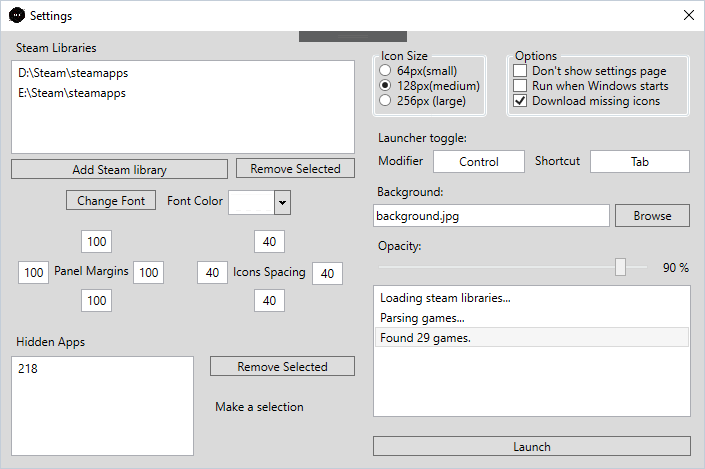
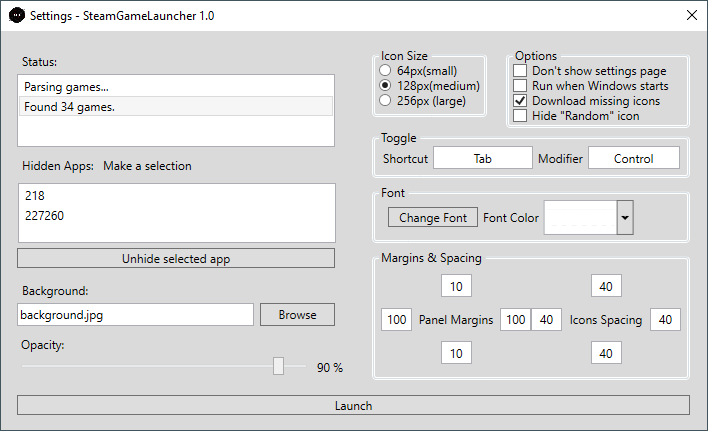
Revamped settings page, added screenshots.

diff --git a/MainWindow.xaml b/MainWindow.xaml
@@ -6,10 +6,10 @@
         xmlns:xctk="http://schemas.xceed.com/wpf/xaml/toolkit"
         xmlns:local="clr-namespace:Steam_Game_Launcher"
         mc:Ignorable="d"
-        Title="Settings" Height="475.682" Width="718.808" ResizeMode="NoResize" Initialized="fmSettings_Initialized" ShowInTaskbar="False" Background="#FFDADADA" WindowStartupLocation="CenterScreen" Closing="fmSettings_Closing" Icon="/Resources/icon.ico">
+        Title="Settings" Height="437.682" Width="721.808" ResizeMode="NoResize" Initialized="fmSettings_Initialized" ShowInTaskbar="False" Background="#FFDADADA" WindowStartupLocation="CenterScreen" Closing="fmSettings_Closing" Icon="/Resources/icon.ico">
     <Grid RenderTransformOrigin="0.514,0.515" Margin="0,0,0,-19">
-        <Button x:Name="btLauncher" Content="Launch" HorizontalAlignment="Left" Margin="17,414,0,0" VerticalAlignment="Top" Width="318" Click="btLauncher_Click"/>
-        <ListBox x:Name="lbLog" HorizontalAlignment="Left" Height="132" Margin="17,10,0,0" VerticalAlignment="Top" Width="318"/>
+        <Button x:Name="btLauncher" Content="Launch" HorizontalAlignment="Left" Margin="16,364,0,0" VerticalAlignment="Top" Width="673" Click="btLauncher_Click"/>
+        <ListBox x:Name="lbLog" HorizontalAlignment="Left" Height="73" Margin="16,43,0,0" VerticalAlignment="Top" Width="318"/>
         <GroupBox x:Name="groupBox" Header="Icon Size" HorizontalAlignment="Left" Margin="371,15,0,0" VerticalAlignment="Top" Height="71" Width="115">
             <StackPanel HorizontalAlignment="Left" Height="50" VerticalAlignment="Top" Width="102" Margin="0,0,0,2">
                 <RadioButton x:Name="rb64" Content="64px(small)" Click="setIconSize"/>
@@ -17,28 +17,12 @@
                 <RadioButton x:Name="rb256" Content="256px (large)" Click="setIconSize"/>
             </StackPanel>
         </GroupBox>
-        <Label x:Name="label1" Content="Panel Margins" HorizontalAlignment="Left" Margin="391,269,0,0" VerticalAlignment="Top" ToolTip="Margins all around the icon's ensemble"/>
-        <TextBox x:Name="tbPanelMarginTop" HorizontalAlignment="Left" Height="23" Margin="423,242,0,0" TextWrapping="Wrap" VerticalAlignment="Top" Width="31" PreviewTextInput="tbPanelMargin_PreviewTextInput" MaxLines="5" Text="0" TextAlignment="Center" VerticalContentAlignment="Center" TextChanged="SaveSpacingMargins"/>
-        <TextBox x:Name="tbPanelMarginRight" HorizontalAlignment="Left" Height="23" Margin="475,273,0,0" TextWrapping="Wrap" VerticalAlignment="Top" Width="31" PreviewTextInput="tbPanelMargin_PreviewTextInput" MaxLines="5" Text="0" TextAlignment="Center" VerticalContentAlignment="Center" TextChanged="SaveSpacingMargins"/>
-        <TextBox x:Name="tbPanelMarginLeft" HorizontalAlignment="Left" Height="23" Margin="360,273,0,0" TextWrapping="Wrap" VerticalAlignment="Top" Width="31" PreviewTextInput="tbPanelMargin_PreviewTextInput" MaxLines="5" Text="0" TextAlignment="Center" VerticalContentAlignment="Center" TextChanged="SaveSpacingMargins"/>
-        <TextBox x:Name="tbPanelMarginBottom" HorizontalAlignment="Left" Height="23" Margin="423,301,0,0" TextWrapping="Wrap" VerticalAlignment="Top" Width="31" PreviewTextInput="tbPanelMargin_PreviewTextInput" MaxLines="5" Text="0" TextAlignment="Center" VerticalContentAlignment="Center" TextChanged="SaveSpacingMargins"/>
-        <Label x:Name="label1_Copy" Content="Icons Spacing" HorizontalAlignment="Left" Margin="570,270,0,0" VerticalAlignment="Top" ToolTip="The spacing between the icons"/>
-        <TextBox x:Name="tbIconSpacingTop" HorizontalAlignment="Left" Height="23" Margin="596,242,0,0" TextWrapping="Wrap" VerticalAlignment="Top" Width="31" PreviewTextInput="tbPanelMargin_PreviewTextInput" MaxLines="5" Text="0" TextAlignment="Center" VerticalContentAlignment="Center" TextChanged="SaveSpacingMargins"/>
-        <TextBox x:Name="tbIconSpacingRight" HorizontalAlignment="Left" Height="23" Margin="654,274,0,0" TextWrapping="Wrap" VerticalAlignment="Top" Width="31" PreviewTextInput="tbPanelMargin_PreviewTextInput" MaxLines="5" Text="0" TextAlignment="Center" VerticalContentAlignment="Center" TextChanged="SaveSpacingMargins"/>
-        <TextBox x:Name="tbIconSpacingLeft" HorizontalAlignment="Left" Height="23" Margin="539,273,0,0" TextWrapping="Wrap" VerticalAlignment="Top" Width="31" PreviewTextInput="tbPanelMargin_PreviewTextInput" MaxLines="5" Text="0" TextAlignment="Center" VerticalContentAlignment="Center" TextChanged="SaveSpacingMargins"/>
-        <TextBox x:Name="tbIconSpacingBottom" HorizontalAlignment="Left" Height="23" Margin="596,301,0,0" TextWrapping="Wrap" VerticalAlignment="Top" Width="31" PreviewTextInput="tbPanelMargin_PreviewTextInput" MaxLines="5" Text="0" TextAlignment="Center" VerticalContentAlignment="Center" TextChanged="SaveSpacingMargins"/>
-        <Button x:Name="btFont" Content="Change Font" HorizontalAlignment="Left" Margin="408,202,0,0" VerticalAlignment="Top" Width="90" Click="btFont_Click"/>
-        <TextBox x:Name="tbBackground" HorizontalAlignment="Left" Height="23" Margin="17,337,0,0" VerticalAlignment="Top" Width="237" MaxLines="1" IsReadOnly="True" VerticalContentAlignment="Center"/>
-        <Slider x:Name="slOpacity" HorizontalAlignment="Left" Margin="16,391,0,0" VerticalAlignment="Top" Width="280" Maximum="100" ValueChanged="slOpacity_ValueChanged"/>
-        <Label x:Name="label2" Content="Background:" HorizontalAlignment="Left" Margin="17,311,0,0" VerticalAlignment="Top"/>
-        <Button x:Name="btBgBrowse" Content="Browse" HorizontalAlignment="Left" Margin="260,337,0,0" VerticalAlignment="Top" Width="75" Click="btBgBrowse_Click" Height="23"/>
-        <Label x:Name="label3" Content="Opacity:" HorizontalAlignment="Left" Margin="16,365,0,0" VerticalAlignment="Top"/>
-        <Label x:Name="lblOpacity" Content="00" HorizontalAlignment="Left" Margin="301,387,0,0" VerticalAlignment="Top"/>
-        <xctk:ColorPicker x:Name="colorPicker" Margin="570,202,70,229" Closed="colorPicker_Closed" />
-        <TextBox x:Name="tbShortcut" HorizontalAlignment="Left" Height="23" Margin="588,150,0,0" TextWrapping="Wrap" VerticalAlignment="Top" Width="100" PreviewKeyDown="tbShortcut_PreviewKeyDown" IsReadOnly="True" TextAlignment="Center" VerticalContentAlignment="Center"/>
-        <Label x:Name="label4" Content="Shortcut" HorizontalAlignment="Left" Margin="528,147,0,0" VerticalAlignment="Top"/>
-        <TextBox x:Name="tbModifier" HorizontalAlignment="Left" Height="23" Margin="431,150,0,0" TextWrapping="Wrap" VerticalAlignment="Top" Width="92" IsReadOnly="True" PreviewKeyDown="tbModifier_PreviewKeyDown" TextAlignment="Center" VerticalContentAlignment="Center"/>
-        <Label x:Name="label5" Content="Modifier" HorizontalAlignment="Left" Margin="371,147,0,0" VerticalAlignment="Top"/>
+        <TextBox x:Name="tbBackground" HorizontalAlignment="Left" Height="23" Margin="16,272,0,0" VerticalAlignment="Top" Width="237" MaxLines="1" IsReadOnly="True" VerticalContentAlignment="Center"/>
+        <Slider x:Name="slOpacity" HorizontalAlignment="Left" Margin="15,326,0,0" VerticalAlignment="Top" Width="296" Maximum="100" ValueChanged="slOpacity_ValueChanged"/>
+        <Label x:Name="label2" Content="Background:" HorizontalAlignment="Left" Margin="16,246,0,0" VerticalAlignment="Top"/>
+        <Button x:Name="btBgBrowse" Content="Browse" HorizontalAlignment="Left" Margin="259,272,0,0" VerticalAlignment="Top" Width="75" Click="btBgBrowse_Click" Height="23"/>
+        <Label x:Name="label3" Content="Opacity:" HorizontalAlignment="Left" Margin="15,300,0,0" VerticalAlignment="Top"/>
+        <Label x:Name="lblOpacity" Content="00" HorizontalAlignment="Left" Margin="311,323,0,0" VerticalAlignment="Top"/>
         <GroupBox x:Name="groupBox1" Header="Options" HorizontalAlignment="Left" Margin="505,15,0,0" VerticalAlignment="Top" Height="82" Width="184">
             <StackPanel HorizontalAlignment="Left" VerticalAlignment="Top" Width="165">
                 <CheckBox x:Name="cbSkipSettings" Content="Don't show settings page" HorizontalAlignment="Left" VerticalAlignment="Top" Width="159" ToolTip="Hide this page on run"/>
@@ -47,11 +31,50 @@
                 <CheckBox x:Name="cbHideRandom" Content="Hide &quot;Random&quot; icon" HorizontalAlignment="Left" VerticalAlignment="Top" Width="159" Click="cbHideRandom_Click"/>
             </StackPanel>
         </GroupBox>
-        <Label x:Name="label6" Content="Font Color" HorizontalAlignment="Left" Margin="504,196,0,0" VerticalAlignment="Top" Height="33" VerticalContentAlignment="Center"/>
-        <Label x:Name="label7" Content="Launcher toggle:" HorizontalAlignment="Left" Margin="371,124,0,0" VerticalAlignment="Top"/>
-        <ListBox x:Name="lbHidden" HorizontalAlignment="Left" Height="100" Margin="17,186,0,0" VerticalAlignment="Top" Width="318" SelectionChanged="lbHidden_SelectionChanged"/>
-        <Button x:Name="btAddHidden" Content="Remove Selected" HorizontalAlignment="Left" Margin="17,291,0,0" VerticalAlignment="Top" Width="318" Click="btAddHidden_Click"/>
-        <Label x:Name="label8" Content="Hidden Apps:" HorizontalAlignment="Left" Margin="17,155,0,0" VerticalAlignment="Top"/>
-        <Label x:Name="lblName" Content="Make a selection" HorizontalAlignment="Left" Margin="101,155,0,0" VerticalAlignment="Top" Width="145" Height="29"/>
+        <ListBox x:Name="lbHidden" HorizontalAlignment="Left" Height="60" Margin="17,152,0,0" VerticalAlignment="Top" Width="318" SelectionChanged="lbHidden_SelectionChanged"/>
+        <Button x:Name="btAddHidden" Content="Unhide selected app" HorizontalAlignment="Left" Margin="16,217,0,0" VerticalAlignment="Top" Width="318" Click="btAddHidden_Click"/>
+        <Label x:Name="label8" Content="Hidden Apps:" HorizontalAlignment="Left" Margin="16,121,0,0" VerticalAlignment="Top"/>
+        <Label x:Name="lblName" Content="Make a selection" HorizontalAlignment="Left" Margin="97,121,0,0" VerticalAlignment="Top" Width="145" Height="29"/>
+        <GroupBox x:Name="groupBox2" Header="Toggle" HorizontalAlignment="Left" Height="50" Margin="371,97,0,0" VerticalAlignment="Top" Width="318">
+            <WrapPanel HorizontalAlignment="Left" Margin="0,0,-2,0" VerticalAlignment="Top" Width="308" Height="30">
+                <Label x:Name="label4" Content="Shortcut" HorizontalAlignment="Center" VerticalAlignment="Center"/>
+                <TextBox x:Name="tbShortcut" HorizontalAlignment="Center" Height="23" TextWrapping="Wrap" VerticalAlignment="Center" Width="100" PreviewKeyDown="tbShortcut_PreviewKeyDown" IsReadOnly="True" TextAlignment="Center" VerticalContentAlignment="Center"/>
+                <Label x:Name="label5" Content="Modifier" HorizontalAlignment="Center" VerticalAlignment="Center"/>
+                <TextBox x:Name="tbModifier" HorizontalAlignment="Center" Height="23" TextWrapping="Wrap" VerticalAlignment="Center" Width="92" IsReadOnly="True" PreviewKeyDown="tbModifier_PreviewKeyDown" TextAlignment="Center" VerticalContentAlignment="Center"/>
+            </WrapPanel>
+
+        </GroupBox>
+        <GroupBox x:Name="groupBox3" Header="Font" HorizontalAlignment="Left" Margin="371,152,0,0" VerticalAlignment="Top" Height="60" Width="318">
+            <WrapPanel HorizontalAlignment="Left" Margin="10,0,0,0" VerticalAlignment="Top">
+                <Button x:Name="btFont" Content="Change Font" HorizontalAlignment="Left" VerticalAlignment="Center" Width="90" Click="btFont_Click"/>
+                <Label x:Name="label6" Content="Font Color" HorizontalAlignment="Center" VerticalAlignment="Center" Height="33" VerticalContentAlignment="Center"/>
+                <xctk:ColorPicker x:Name="colorPicker" Closed="colorPicker_Closed" Width="90" ScrollViewer.VerticalScrollBarVisibility="Disabled" VerticalContentAlignment="Center" Height="35" HorizontalAlignment="Center" VerticalAlignment="Center" >
+                    <xctk:ColorPicker.CacheMode>
+                        <BitmapCache/>
+                    </xctk:ColorPicker.CacheMode>
+                </xctk:ColorPicker>
+            </WrapPanel>
+        </GroupBox>
+        <GroupBox x:Name="groupBox4" Header="Margins &amp; Spacing" HorizontalAlignment="Left" Margin="371,217,0,0" VerticalAlignment="Top" Height="132" Width="318">
+            <DockPanel HorizontalAlignment="Center" LastChildFill="False" Margin="0" VerticalAlignment="Center">
+                <DockPanel HorizontalAlignment="Left" Height="90" LastChildFill="True" Margin="0" VerticalAlignment="Top" Width="150">
+                    <TextBox x:Name="tbPanelMarginTop" DockPanel.Dock="Top" HorizontalAlignment="Center" Height="23" TextWrapping="Wrap" VerticalAlignment="Center" Width="31" PreviewTextInput="tbPanelMargin_PreviewTextInput" MaxLines="5" Text="0" TextAlignment="Center" VerticalContentAlignment="Center" TextChanged="SaveSpacingMargins"/>
+                    <TextBox x:Name="tbPanelMarginBottom" DockPanel.Dock="Bottom" TextWrapping="Wrap" VerticalAlignment="Center" PreviewTextInput="tbPanelMargin_PreviewTextInput" MaxLines="5" Text="0" TextAlignment="Center" VerticalContentAlignment="Center" TextChanged="SaveSpacingMargins" Height="23" HorizontalAlignment="Center" Width="31"/>
+                    <TextBox x:Name="tbPanelMarginRight" DockPanel.Dock="Right" HorizontalAlignment="Center" Height="23" TextWrapping="Wrap" VerticalAlignment="Center" Width="31" PreviewTextInput="tbPanelMargin_PreviewTextInput" MaxLines="5" Text="0" TextAlignment="Center" VerticalContentAlignment="Center" TextChanged="SaveSpacingMargins" />
+                    <TextBox x:Name="tbPanelMarginLeft" DockPanel.Dock="Left" HorizontalAlignment="Center" Height="23" TextWrapping="Wrap" VerticalAlignment="Center" Width="31" PreviewTextInput="tbPanelMargin_PreviewTextInput" MaxLines="5" Text="0" TextAlignment="Center" VerticalContentAlignment="Center" TextChanged="SaveSpacingMargins"/>
+
+                    <Label x:Name="label1" Content="Panel Margins" HorizontalAlignment="Center" Margin="0" VerticalAlignment="Center" ToolTip="Margins all around the icon's ensemble"/>
+                </DockPanel>
+                <DockPanel HorizontalAlignment="Left" Height="90" LastChildFill="True" Margin="0" VerticalAlignment="Top" Width="150" DockPanel.Dock="Right">
+                    <TextBox x:Name="tbIconSpacingTop" HorizontalAlignment="Center" Height="23" TextWrapping="Wrap" VerticalAlignment="Center" Width="31" PreviewTextInput="tbPanelMargin_PreviewTextInput" MaxLines="5" Text="0" TextAlignment="Center" VerticalContentAlignment="Center" TextChanged="SaveSpacingMargins" DockPanel.Dock="Top"/>
+                    <TextBox x:Name="tbIconSpacingBottom" HorizontalAlignment="Center" Height="23" Margin="0" TextWrapping="Wrap" VerticalAlignment="Center" Width="31" PreviewTextInput="tbPanelMargin_PreviewTextInput" MaxLines="5" Text="0" TextAlignment="Center" VerticalContentAlignment="Center" TextChanged="SaveSpacingMargins" DockPanel.Dock="Bottom"/>
+                    <TextBox x:Name="tbIconSpacingRight" HorizontalAlignment="Center" Height="23" Margin="0" TextWrapping="Wrap" VerticalAlignment="Center" Width="31" PreviewTextInput="tbPanelMargin_PreviewTextInput" MaxLines="5" Text="0" TextAlignment="Center" VerticalContentAlignment="Center" TextChanged="SaveSpacingMargins" DockPanel.Dock="Right"/>
+                    <TextBox x:Name="tbIconSpacingLeft" HorizontalAlignment="Center" Height="23" Margin="0" TextWrapping="Wrap" VerticalAlignment="Center" Width="31" PreviewTextInput="tbPanelMargin_PreviewTextInput" MaxLines="5" Text="0" TextAlignment="Center" VerticalContentAlignment="Center" TextChanged="SaveSpacingMargins" DockPanel.Dock="Left"/>
+                    <Label x:Name="label1_Copy" Content="Icons Spacing" HorizontalAlignment="Center" Margin="0" VerticalAlignment="Center" ToolTip="The spacing between the icons"/>
+                </DockPanel>
+            </DockPanel>
+        </GroupBox>
+        <Label x:Name="label8_Copy" Content="Status:" HorizontalAlignment="Left" Margin="16,17,0,0" VerticalAlignment="Top"/>
+
     </Grid>
 </Window>

diff --git a/MainWindow.xaml.cs b/MainWindow.xaml.cs
@@ -35,7 +35,7 @@ namespace Steam_Game_Launcher
 
         const string SETTINGS_FILE = "userconfig.ini";
         public const string APPNAME = "SteamGameLauncher";
-        const string APPVER = "0.5 BETA";
+        const string APPVER = "1.0";
 
         public MainWindow()
         {

diff --git a/readme.md b/readme.md
@@ -1,15 +1,16 @@
 # SteamGameLauncher
 
-SteamGameLauncher creates a beautiful interface for your installed games. Simply point to your steam library and let it do the rest.
+SteamGameLauncher creates a launch pad for your installed games.
 
   - Customizable
   - Automatic icons download
   - Lists only installed games!
   - Launch a random game
 
+[Download Here](https://github.com/Gabisonfire/SteamGameLauncher/releases/latest)  
+  
 ![Not found](/Screenshots/main.png?raw=true "Launcher")
-
-[Download Here](https://github.com/Gabisonfire/SteamGameLauncher/releases/latest)
+![Not found](/Screenshots/main2.png?raw=true "Launcher")
 
 ### Installation
 Installation is really easy, just extract the archive to any directory. Use a directory you have write access to write the config file. You will need to have the *.NET Framework 4.5* installed. Launch SteamGameLauncher.exe.
@@ -19,7 +20,6 @@ On the first run, and subsequent unless you choose otherwise), you will be promp
 
 ![Not found](/Screenshots/settings.png?raw=true "Settings")
 
- - *Steam Libraries*: Pretty straightforward, must point to your "steamapps" folder in your library/libraries
  - You can change the *font* size, type and color for the labels under the icons
  - *Panel Margins*: Sets the margins between the icons panel and the end of the screen
  - *Icons Spacing*: Spacing between each icons
@@ -51,7 +51,7 @@ SteamGameLauncher uses the following NuGet packages:
  - Steam-Local by ObsidianMinor
 
 ### Credits
-The original wallpaper included with the application and showed in the screenshot is "Lost Aura" by filipe-ps from DeviantArt
+The original wallpapers included with the application and showed in the screenshots are "Lost Aura" by filipe-ps and "Linear Retro" by MindWav3 from DeviantArt
 
 The default icon is made by Chanut is Industries from www.flaticon.com, is licensed by "Creative Commons BY 3.0".
 
